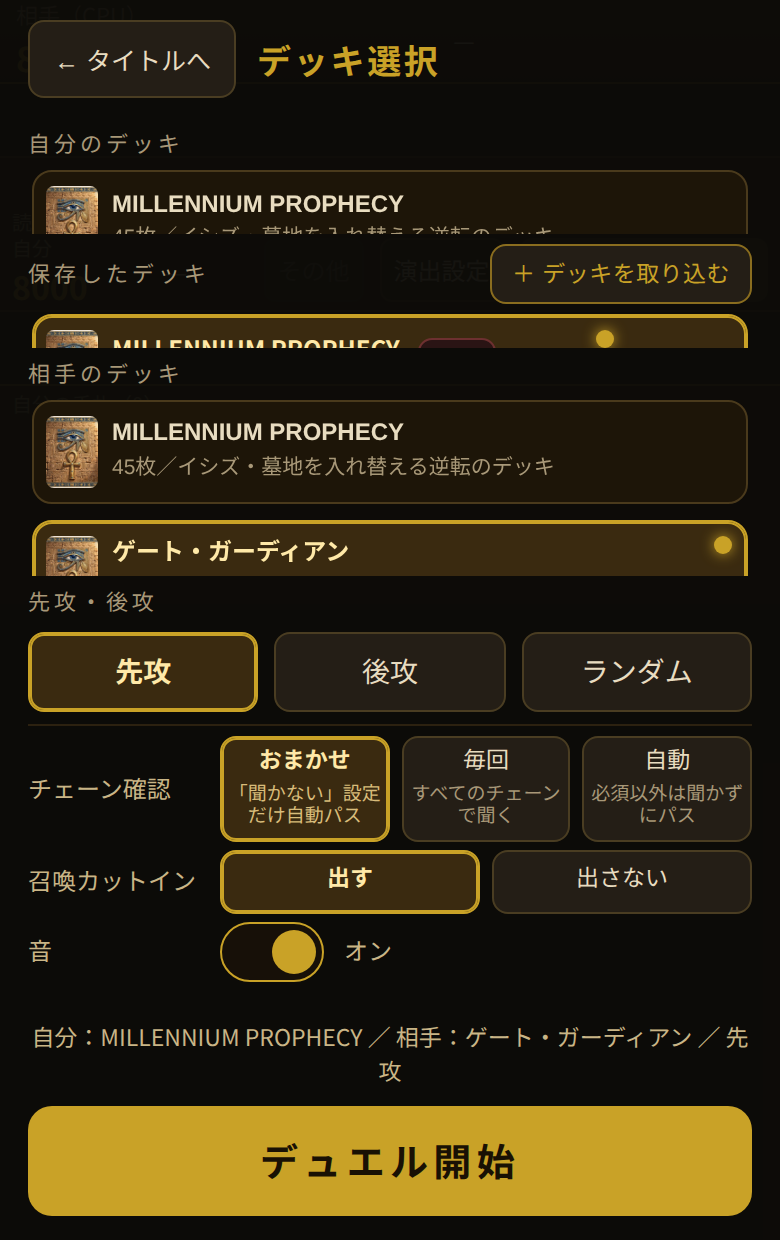
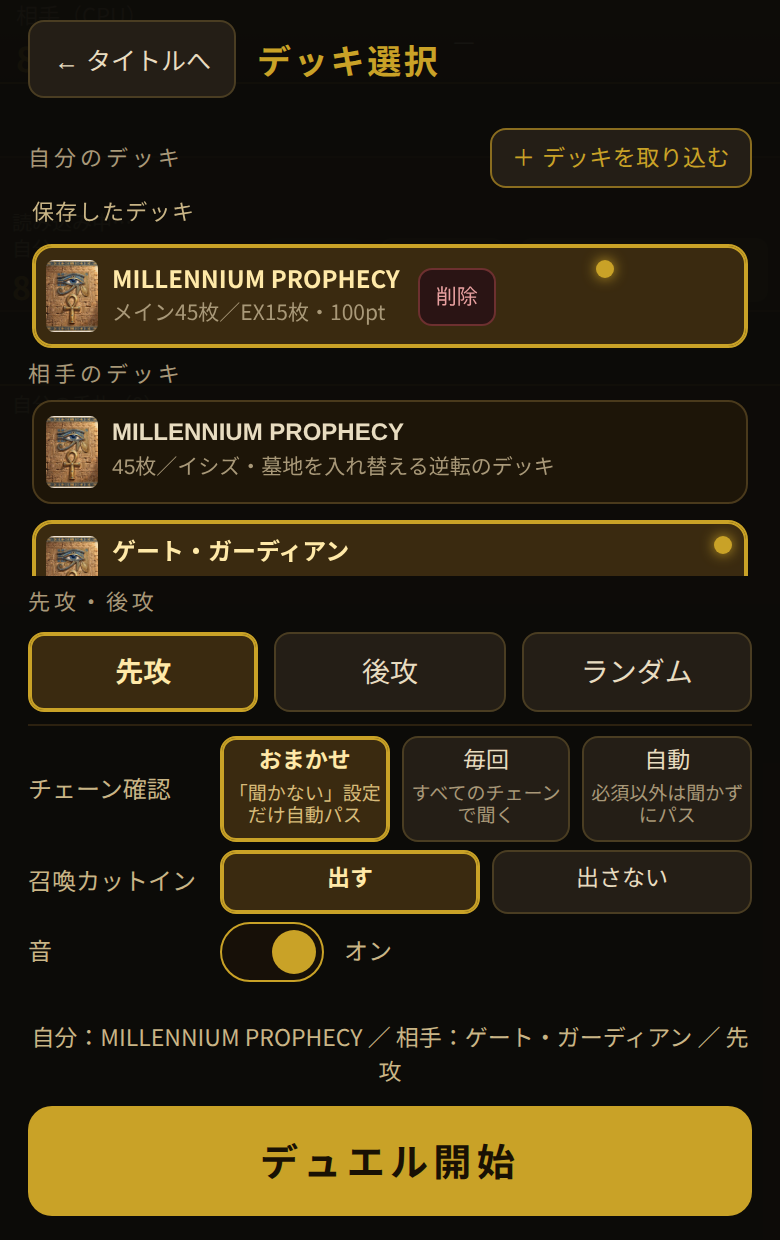
Neuron Phase 1 fix: saved decks render inside the own-deck list (single scroll region) instead of a second list that crushed the deck page at phone heights; selected saved row scrolls into view

Changed region(s): [[0.0308, 0.0919, 0.9846, 0.3065], [0.6154, 0.0919, 0.9846, 0.1532]]

diff --git a/v2/index.html b/v2/index.html
@@ -530,17 +530,17 @@
   .sstate{font-size:12px;color:#c9b586;width:34px;text-align:left;}
   #start .startbtn,#deckpage .startbtn{width:100%;min-height:52px;font-size:19px;letter-spacing:.14em;border-radius:12px;}
   #start .startbtn:disabled,#deckpage .startbtn:disabled{background:#4a3d22;color:#8a7c55;}
-  /* neuron import (Phase 1, 2026-11-04): saved imported decks live
-     under the own-deck list in their own scroll region of the same
-     section; the import panel is a fixed one-screen overlay whose
-     result area scrolls internally. */
+  /* neuron import (Phase 1, 2026-11-04): saved imported decks are
+     rows inside the own-deck list itself (one scroll region, under
+     a 保存したデッキ divider) so the deck page's flex accounting
+     is unchanged at any height; the import panel is a fixed
+     one-screen overlay whose result area scrolls internally. */
   #deckpage .savedrow{display:flex;align-items:center;justify-content:space-between;gap:8px;}
   #deckimport{background:var(--panel2);color:var(--gold);border:1px solid var(--gold-dim);border-radius:8px;font-size:11.5px;padding:6px 10px;cursor:pointer;letter-spacing:.02em;}
-  #seg-saved{flex:0 1 auto;max-height:42%;}
-  #seg-saved:empty{display:none;}
-  #seg-saved .deck .deckdel{flex:none;background:#2a1414;color:#e8a0a0;border:1px solid #6d3030;border-radius:7px;font-size:10.5px;padding:6px 8px;cursor:pointer;margin-left:2px;}
-  #seg-saved .deck .deckdel.armed{background:#6d1f1f;color:#ffd9d9;border-color:#a04a4a;font-weight:700;}
-  #seg-saved .deck .check{right:66px;}
+  #seg-mydeck .saveddiv{flex:0 0 auto;font-size:11px;color:#c9b586;letter-spacing:.06em;margin-top:2px;}
+  #seg-mydeck .deck.saved .deckdel{flex:none;background:#2a1414;color:#e8a0a0;border:1px solid #6d3030;border-radius:7px;font-size:10.5px;padding:6px 8px;cursor:pointer;margin-left:2px;}
+  #seg-mydeck .deck.saved .deckdel.armed{background:#6d1f1f;color:#ffd9d9;border-color:#a04a4a;font-weight:700;}
+  #seg-mydeck .deck.saved .check{right:66px;}
   #neuronpanel{display:none;justify-content:flex-start;overflow:hidden;padding:10px 14px 12px;align-items:stretch;text-align:left;z-index:66;}
   #neuronpanel .np-head{display:flex;align-items:center;gap:10px;width:100%;flex:0 0 auto;}
   #neuronback{background:var(--panel2);color:var(--txt);border:1px solid var(--tile-edge);border-radius:8px;font-size:12.5px;padding:9px 12px;cursor:pointer;flex:0 0 auto;}
@@ -648,13 +648,11 @@
     <div class="dp-head"><button id="deckback">← タイトルへ</button><div class="dp-title">デッキ選択</div></div>
     <div class="dp-main">
       <div class="dp-sec">
-        <div class="segrow">自分のデッキ</div>
+        <div class="segrow savedrow"><span>自分のデッキ</span><button id="deckimport">＋ デッキを取り込む</button></div>
         <div class="decklist" id="seg-mydeck">
           <button class="deck sel" data-v="ishizu"><img src="../assets/card-art-placeholder-s.jpg" alt=""><span><span class="dn">MILLENNIUM PROPHECY</span><span class="dd">45枚／イシズ・墓地を入れ替える逆転のデッキ</span></span><span class="check"></span></button>
           <button class="deck" data-v="gg"><img src="../assets/card-art-placeholder-s.jpg" alt=""><span><span class="dn">ゲート・ガーディアン</span><span class="dd">40枚／三魔神の合体と壁のデッキ</span></span><span class="check"></span></button>
         </div>
-        <div class="segrow savedrow"><span>保存したデッキ</span><button id="deckimport">＋ デッキを取り込む</button></div>
-        <div class="decklist" id="seg-saved"></div>
       </div>
       <div class="dp-sec">
         <div class="segrow">相手のデッキ</div>

diff --git a/v2/test-neuron.js b/v2/test-neuron.js
@@ -135,7 +135,7 @@ const codesText = (main, extra, side) =>
     const window = await boot();
     const doc = window.document;
     doc.getElementById('todeck').click();
-    ok(!!doc.getElementById('deckimport') && !!doc.getElementById('seg-saved'), 'N3: deck page carries the import entry and the saved-decks region');
+    ok(!!doc.getElementById('deckimport') && !!doc.getElementById('seg-mydeck'), 'N3: deck page carries the import entry and the own-deck list');
     const res = await importText(window, fixture);
     ok(res.textContent.includes('MILLENNIUM PROPHECY') && res.textContent.includes('メイン（45枚）') &&
        res.textContent.includes('エクストラ（15枚）') && res.textContent.includes('サイド（9枚）'),
@@ -145,7 +145,7 @@ const codesText = (main, extra, side) =>
     const saveBtn = doc.getElementById('neuronsave');
     ok(saveBtn.style.display !== 'none' && saveBtn.textContent === '保存する', 'N4c: save is offered');
     saveBtn.click();
-    const savedEls = doc.querySelectorAll('#seg-saved .deck');
+    const savedEls = doc.querySelectorAll('#seg-mydeck .deck.saveditem');
     ok(savedEls.length === 1 && savedEls[0].querySelector('.dn').textContent === 'MILLENNIUM PROPHECY',
       'N5: the saved deck is listed under own decks');
     ok(savedEls[0].classList.contains('sel') && doc.getElementById('decksum').textContent.includes('自分：MILLENNIUM PROPHECY'),
@@ -160,7 +160,7 @@ const codesText = (main, extra, side) =>
     const window = await boot({ v2saveddecks: savedJson });
     const doc = window.document;
     doc.getElementById('todeck').click();
-    const savedEls = doc.querySelectorAll('#seg-saved .deck');
+    const savedEls = doc.querySelectorAll('#seg-mydeck .deck.saveditem');
     ok(savedEls.length === 1, 'N6: the saved deck survives a reboot');
     savedEls[0].click();
     ok(doc.getElementById('decksum').textContent.includes('自分：MILLENNIUM PROPHECY'), 'N6b: it can be selected after reboot');
@@ -225,7 +225,7 @@ const codesText = (main, extra, side) =>
     const saveBtn = doc.getElementById('neuronsave');
     ok(saveBtn.style.display !== 'none' && saveBtn.textContent.includes('対戦はまだできません'), 'N11b: save is offered with the cannot-play note');
     saveBtn.click();
-    const el = doc.querySelector('#seg-saved .deck');
+    const el = doc.querySelector('#seg-mydeck .deck.saveditem');
     ok(!!el && el.querySelector('.dd').textContent.includes('未対応カードあり（対戦不可）'), 'N11c: the list marks the deck unplayable');
     ok(el.classList.contains('sel') && doc.getElementById('startbtn').disabled === true &&
        doc.getElementById('startbtn').textContent.includes('未対応カードがあるため開始できません'),
@@ -234,9 +234,9 @@ const codesText = (main, extra, side) =>
     // delete (two-step)
     const del = el.querySelector('.deckdel');
     del.click();
-    ok(doc.querySelectorAll('#seg-saved .deck').length === 1 && del.textContent === '本当に削除', 'N12: first delete tap only arms the confirm');
+    ok(doc.querySelectorAll('#seg-mydeck .deck.saveditem').length === 1 && del.textContent === '本当に削除', 'N12: first delete tap only arms the confirm');
     del.click();
-    ok(doc.querySelectorAll('#seg-saved .deck').length === 0 && !window.localStorage.getItem('v2saveddecks')?.includes('sv'),
+    ok(doc.querySelectorAll('#seg-mydeck .deck.saveditem').length === 0 && !window.localStorage.getItem('v2saveddecks')?.includes('sv'),
       'N12b: second tap deletes the deck and its storage entry');
     window.close();
   }

diff --git a/v2/client.js b/v2/client.js
@@ -186,7 +186,14 @@ function updateDeckSum() {
 }
 function syncDeckSelection() {
   document.querySelectorAll('#seg-mydeck button.deck').forEach(b => b.classList.toggle('sel', b.dataset.v === myDeckKey));
-  document.querySelectorAll('#seg-saved .deck').forEach(b => b.classList.toggle('sel', b.dataset.k === myDeckKey));
+  document.querySelectorAll('#seg-mydeck .deck.saveditem').forEach(b => b.classList.toggle('sel', b.dataset.k === myDeckKey));
+  // a selected saved deck sits below the built-ins inside the
+  // list's own scroll region; bring its row into view so the
+  // selection is visible feedback, not just a summary line
+  if (myDeckKey && myDeckKey.indexOf('saved:') === 0) {
+    const row = document.querySelector('#seg-mydeck .deck.saveditem[data-k="' + myDeckKey + '"]');
+    if (row && row.scrollIntoView) { try { row.scrollIntoView({ block: 'nearest' }); } catch (e) {} }
+  }
 }
 function selectMyDeck(key) {
   myDeckKey = key;
@@ -196,12 +203,18 @@ function selectMyDeck(key) {
 }
 let delArm = null; // {key, until} — two-step delete confirm on the button itself
 function renderSavedDecks() {
-  const el = $('seg-saved'); if (!el) return;
-  el.innerHTML = '';
+  const el = $('seg-mydeck'); if (!el) return;
+  el.querySelectorAll('.saveditem').forEach(n => n.remove());
+  if (savedDeckList.length) {
+    const div = document.createElement('div');
+    div.className = 'saveddiv saveditem';
+    div.textContent = '保存したデッキ';
+    el.appendChild(div);
+  }
   for (const r of savedDeckList) {
     const key = 'saved:' + r.id;
     const d = document.createElement('div');
-    d.className = 'deck' + (myDeckKey === key ? ' sel' : '');
+    d.className = 'deck saved saveditem' + (myDeckKey === key ? ' sel' : '');
     d.dataset.k = key;
     d.innerHTML = '<img src="../assets/card-art-placeholder-s.jpg" alt=""><span><span class="dn"></span><span class="dd"></span></span><span class="check"></span><button class="deckdel">削除</button>';
     d.querySelector('.dn').textContent = r.name;
